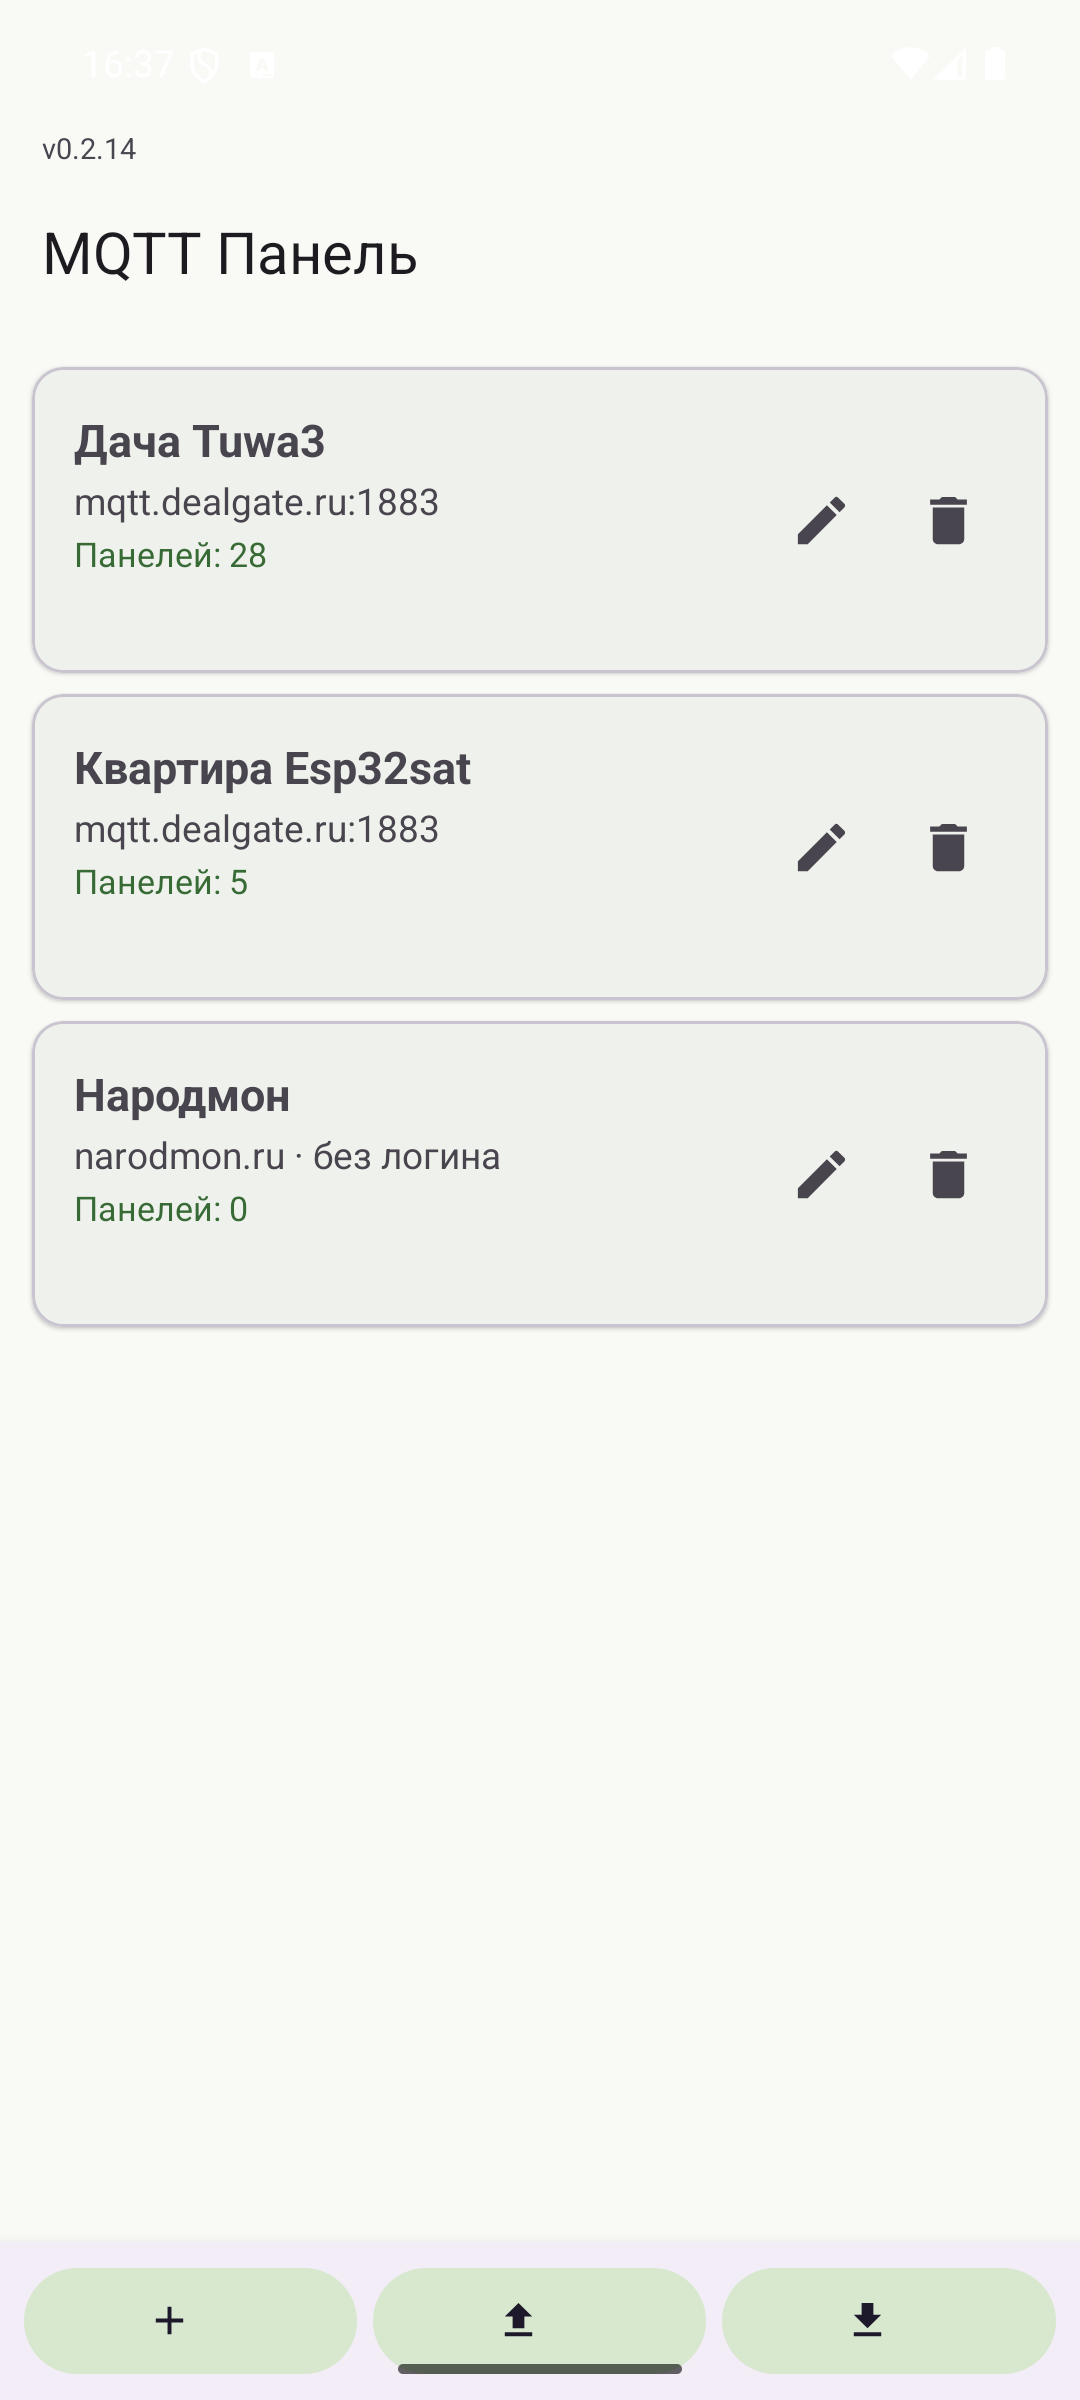
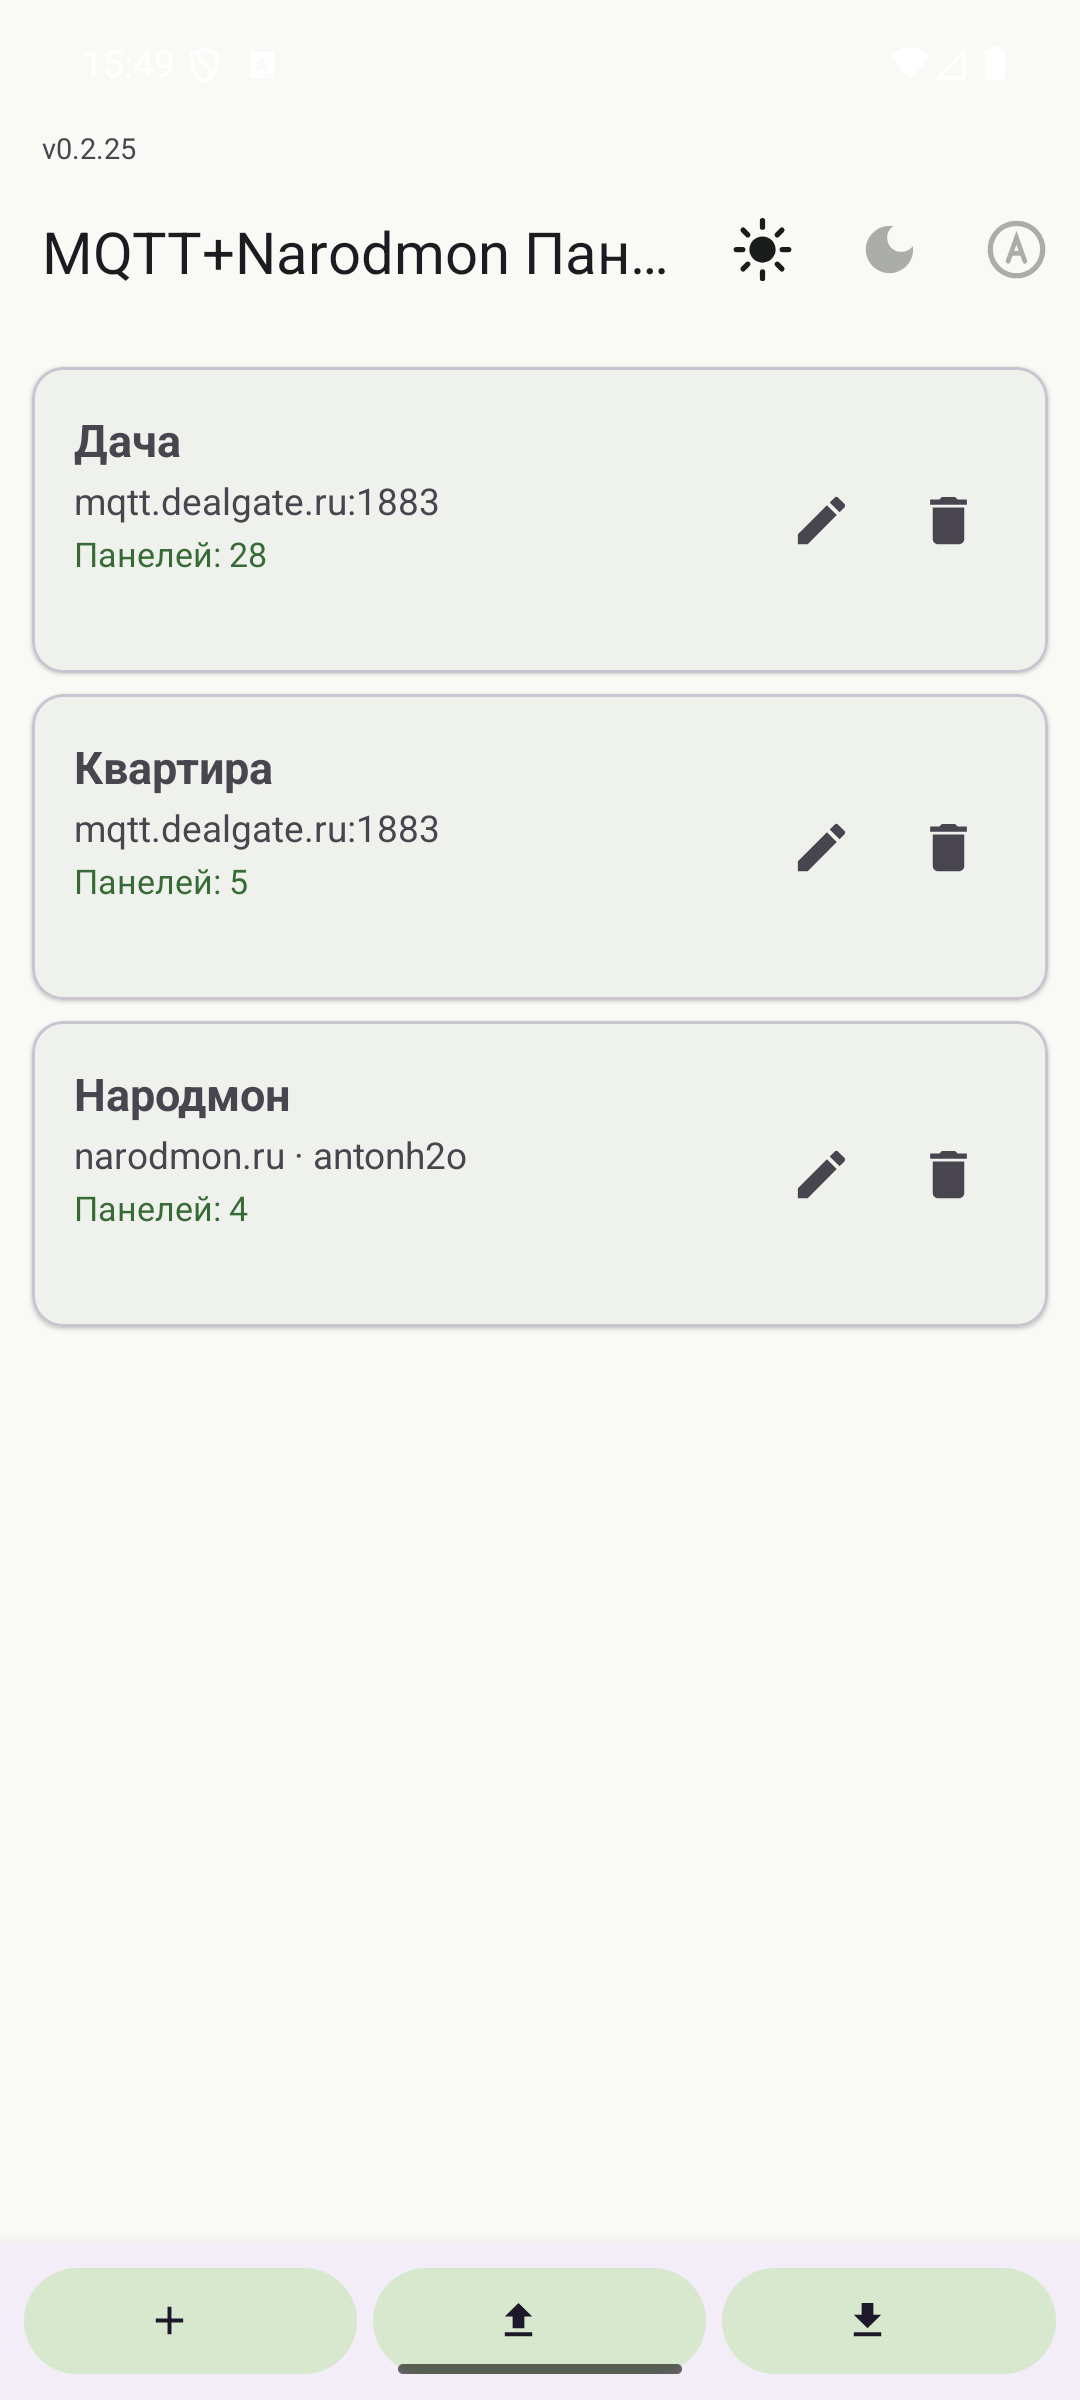
README: все изменения 0.2.19–0.2.25 (динамический цвет, темы, время, шкала времени, кэш), свежие скриншоты

diff --git a/README.md b/README.md
@@ -4,10 +4,11 @@ Android-дашборд для [MQTT](https://mqtt.org/)-брокера и пла
 
 **Текущая версия:** 0.2.25 · minSdk 24 (Android 7.0) · Kotlin · Eclipse Paho 1.2.5
 
-| Дашборд: мультиграфик + шкала | Карточки с эмодзи в названии и единицах |
+| Дашборд: мультиграфик + шкала времени | Карточки с эмодзи и динамическим цветом |
 |---|---|
-| ![Дашборд с мультиграфиками](screenshots/dashboard.png) | ![Карточки 🌡 💧 🔋](screenshots/emoji-cards.png) |
-| ![Список подключений](screenshots/connections.png) | ![Редактор серий мультиграфика](screenshots/series-editor.png) |
+| ![Дашборд с мультиграфиками](screenshots/dashboard.png) | ![Карточки 🌡 💧 🔋 ⚡](screenshots/emoji-cards.png) |
+| ![Датчики Народного Мониторинга](screenshots/narodmon-dash.png) | ![Тёмная тема](screenshots/theme-dark.png) |
+| ![Цвет по значению в редакторе](screenshots/chart-color-editor.png) | ![Серии мультиграфика](screenshots/series-editor.png) |
 
 ## Возможности
 
@@ -23,13 +24,23 @@ Android-дашборд для [MQTT](https://mqtt.org/)-брокера и пла
 
 **Подключения** — TCP, SSL/TLS, WebSocket (`ws://`/`wss://`), логин/пароль, Keep Alive, Clean Session, QoS 0–2, Retained, свой Client ID (при импорте генерируется новый, чтобы два устройства не выбивали друг друга на брокере).
 
+**Динамический цвет значения** — три опорных цвета (минимум → середина → максимум) по диапазону Мин/Макс панели; промежуточные значения получают плавный переход оттенков. Работает для Значения, Текста и Графика (линия и точки графика красятся цветом своего значения). Настраивается кружками в редакторе панели (палитра + hex), «Сбросить цвета» выключает.
+
+**Время передачи данных** — на каждой карточке отображается время последнего обновления (чекбокс «Показывать время обновления»); у Народмона — время измерения от платформы.
+
+**График со шкалой времени** — точки измерений рисуются кружками, снизу шкала времени (начало / середина / конец; `HH:mm:ss` для коротких диапазонов).
+
+**Кэш последних данных** — значения и истории графиков сохраняются локально и показываются мгновенно при открытии дашборда, до прихода свежих данных.
+
 **Народный Мониторинг** — наряду с MQTT приложение умеет показывать датчики платформы [narodmon.ru](https://narodmon.ru): в списке подключений создаётся аккаунт «Narodmon», а панели ссылаются на датчики, выбранные из списка своих устройств (кнопка «Выбрать датчик» вместо ввода темы). Для работы нужен **свой API-ключ** narodmon.ru (бесплатно выдаётся в разделе «Мои приложения») — он указывается в настройках подключения «Narodmon»; в приложении ключа нет, лимит платформы считается на ключ и IP. Значения опрашиваются раз в минуту одним запросом `sensorsNearby?my=1` (при 429 — автоматический бэкофф) и рисуются теми же виджетами: Значение, График, Мультиграфик, Текст. Приватные датчики открываются после логина (пароль не хранится в открытом виде — в API уходит `MD5(uuid + MD5(пароль))` не чаще раза в сутки). История датчиков (`sensorsHistory` day/week) — в планах.
 
 ![Датчики Народного Мониторинга на дашборде](screenshots/narodmon-dash.png)
 
 **Фоновая работа** — foreground-сервис удерживает соединение и автоматически переподключается; на статус-строке видно «Подключено · 2 мин 38 с».
 
-**Прочее** — переключатель темы на главном экране (три кнопки-иконки: светлая / тёмная / как в системе, выбор сохраняется), темы Material 3, русский и английский интерфейс, единицы измерения на карточках (`°C`, `%`…), журнал импорта/сканера с отправкой на отладку.
+**Темы** — переключатель на тулбаре главного экрана: три кнопки-иконки (светлая / тёмная / как в системе), выбор сохраняется и применяется во всех экранах
+
+**Прочее** — Material 3, русский и английский интерфейс, единицы измерения на карточках (`°C`, `%`…), журнал импорта/сканера с отправкой на отладку.
 
 ## Установка
 
